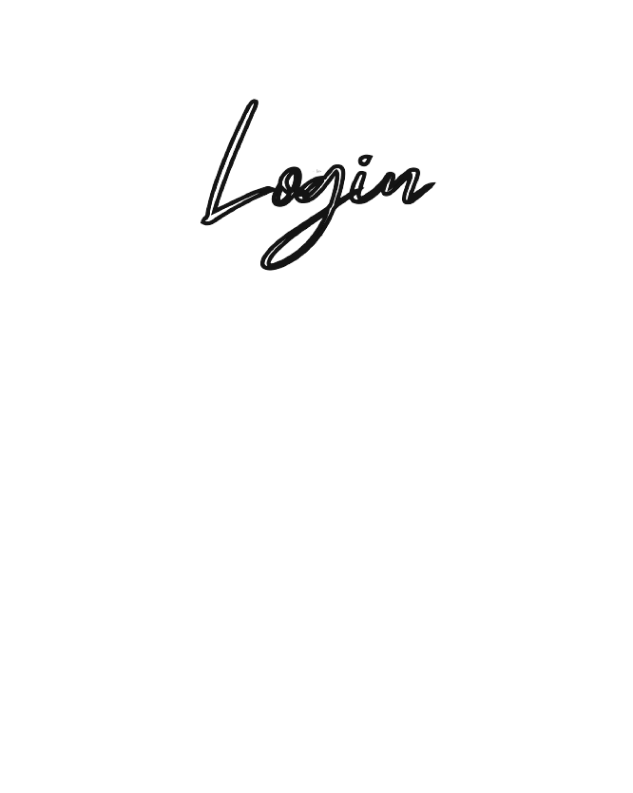
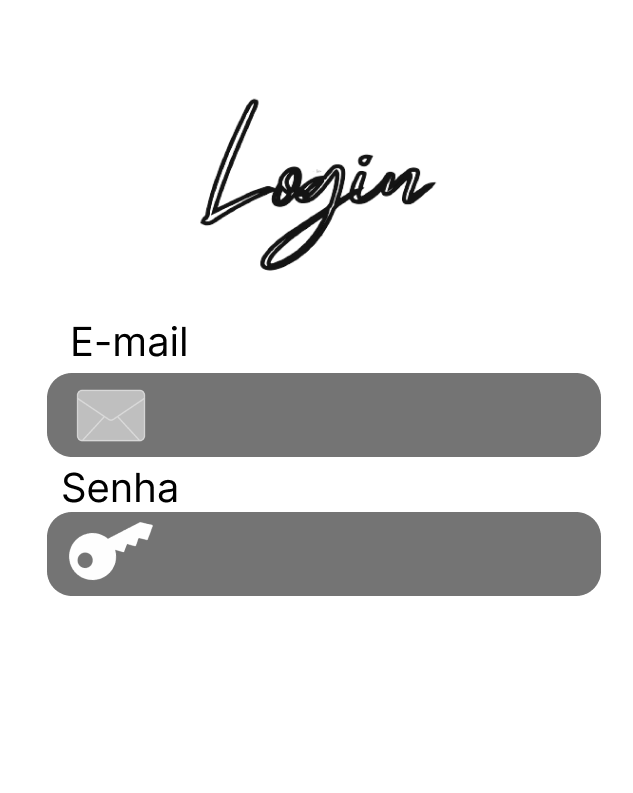
Versao 06/05

Changed region(s): [[0.06, 0.3934, 0.9605, 0.7566]]

diff --git a/cadastro.html b/cadastro.html
@@ -5,16 +5,25 @@
     <meta http-equiv="X-UA-Compatible" content="IE=edge">
     <meta name="viewport" content="width=device-width, initial-scale=1.0">
     <title>Cadastre-se | Partituras gratuitas</title>
+    <link rel="stylesheet" href="./css/estilo.css">
 </head>
-<body style="background-color: black;">
-    <header>
-        <a href="./index.html">
-            <img class="icone_home" src="./HOME_ICON/Homepage_icon.png" alt="Volte para a página inicial" >
-        </a>    
+<body>
+    <header class="icone">
+        <div class="icone_home">
+            <a href="./index.html">
+                <img src="./HOME_ICON/Homepage_icon.png" alt="Volte para a página inicial" >
+            </a>
+        </div>    
     </header>
-    <main>
-        <img class="fundo" src="./CADASTRO/Fundo/Fundo.png" alt= "Faça agora o seu cadastro! É só colocar seu nome, seu email e criar uma senha!" >
-        <img  src="./CADASTRO/Criar/botao_de_criar.png" alt="Clique aqui e crie sua conta!">
+    <main class="cadastro">
+        <div class="fundo" >
+            <img src="./CADASTRO/Fundo/Fundo.png" alt= "Faça agora o seu cadastro! É só colocar seu nome, seu email e criar uma senha!" >
+        </div>
+        <div class= "criar_conta">
+            <a href="">
+                <img  src="./CADASTRO/Criar/botao_de_criar.png" alt="Clique aqui e crie sua conta!">
+            </a>
+        </div>
     </main>
 </body>
 </html>

diff --git a/login.html b/login.html
@@ -5,18 +5,21 @@
     <meta http-equiv="X-UA-Compatible" content="IE=edge">
     <meta name="viewport" content="width=device-width, initial-scale=1.0">
     <title>Faça login | Patituras gratuitas</title>
+    <link rel="stylesheet" href="./css/estilo.css">
 </head>
-<body style="background-color: black;">
-    <header>
-        <a href="./index.html">
-            <img src="./HOME_ICON/Homepage_icon.png" alt="Volte para a página inicial" >
-        </a>    
+<body>
+    <header class="login">
+        <div class= icone_home>
+            <a href="./index.html">
+                <img src="./HOME_ICON/Homepage_icon.png" alt="Volte para a página inicial" >
+            </a>
+        </div>   
     </header>
-<main> 
-    <img src="./LOGIN/Fundo/Fundo.png" alt="Digite abaixo seus dados de login!" >
+<main class="fundo"> 
+    <div class = "fundo">
+        <img src="./LOGIN/Fundo/Fundo.png" alt="Digite abaixo seus dados de login!" >
+    </div>
         <h2>Email</h2>
-    <img src="./LOGIN/Email/Foto_do_email.png" alt="Informe o seu email" >
-    <img src="./LOGIN/Senha/Foto_da_senha.png" alt="Agora digite sua senha, se não lembrar, clique no link abaixo" >
     <a href="">
         <p>Esqueceu sua senha?</p>
     </a>

diff --git a/css/estilo.css b/css/estilo.css
@@ -1,6 +1,8 @@
 @import url('https://fonts.googleapis.com/css2?family=Gabriela&display=swap');
 * {
-    font-family:'Gabriela' ;
+    font-family:'Gabriela';
+    font-style: normal;
+    color: white;
 }
 
 body {background-color:black;}
@@ -21,31 +23,47 @@ header.principal picture div.titulo {
     justify-content: center;
 }
 
-img.titulo > a > img {
-    
+main.botoes {
+    width: 100%;
+    display:flex;
+}
+main.botoes div.ou {
+    font-size: xx-large;
+    justify-content: center;
 }
 
-img.notas1 > a > img {
-
+footer.piano {
+    width: 100%;
+    display: flex;
 }
 
-img.notas2 > a > img{
-
+header.icone div.icone_home {
+    width: 10%;
+    display: flex;
+    justify-content: left;
 }
 
-img.botao_de_cadastro > a > img {
-
+main.cadastro {
+    width: 100%;
+    display: flex;
 }
 
-img.ou > a > img{
-
+main.cadastro div.fundo{
+    justify-content: center;
 }
 
-img.botao_de_login > a > img {
-
+main.cadastro div.criar_conta {
+    width: 100%;
 }
 
-img.foto_de_piano > a > img {
-
+header.login div.icone_home {
+    width: 10%;
+    display: flex;
+    justify-content: left;
 }
 
+main.fundo div.fundo {
+    width: 100%;
+    display:flex;
+    justify-content: center;
+}

diff --git a/index.html b/index.html
@@ -16,27 +16,26 @@
             <div class="titulo"><img class="titulo" src="./HOME/Título/Nome_do_título.png" alt="Acsa Silveira - Partituras gratuitas" > </div>
            <div><img class="notas2" src="./HOME/Notas/notas.png" alt="Notas abaixo e a esquerda do título" ></div>
         </picture>
-
-        <nav>
-            
-        </nav>
     </header>
-    <main>
-        <div>
+
+    <main class= "botoes">
+        <div class="botao_de_cadastro"> 
             <a href="cadastro.html">
             <img class="botao_de_cadastro" src="./HOME/Cadastre-se/botao_de_cadastre.png" alt="Cadastre-se agora!">
             </a>
+        </div>
+        <div class="ou">
             <h2 class="ou">ou</h2>
+        </div>
+        <div class="botao_de_login">
             <a href="login.html">
             <img class="botao_de_login" src="./HOME/Login/botao_de_login.png" alt="Já tem conta? Faça login!">
             </a>
         </div>
-    </main> 
+    </main>
 
-    <footer>
+    <footer class="piano">
     <img class="foto_do_piano" src="./HOME/Piano/piano.png" alt="Piano">
     </footer>
-    
 </body>
-
 </html>
